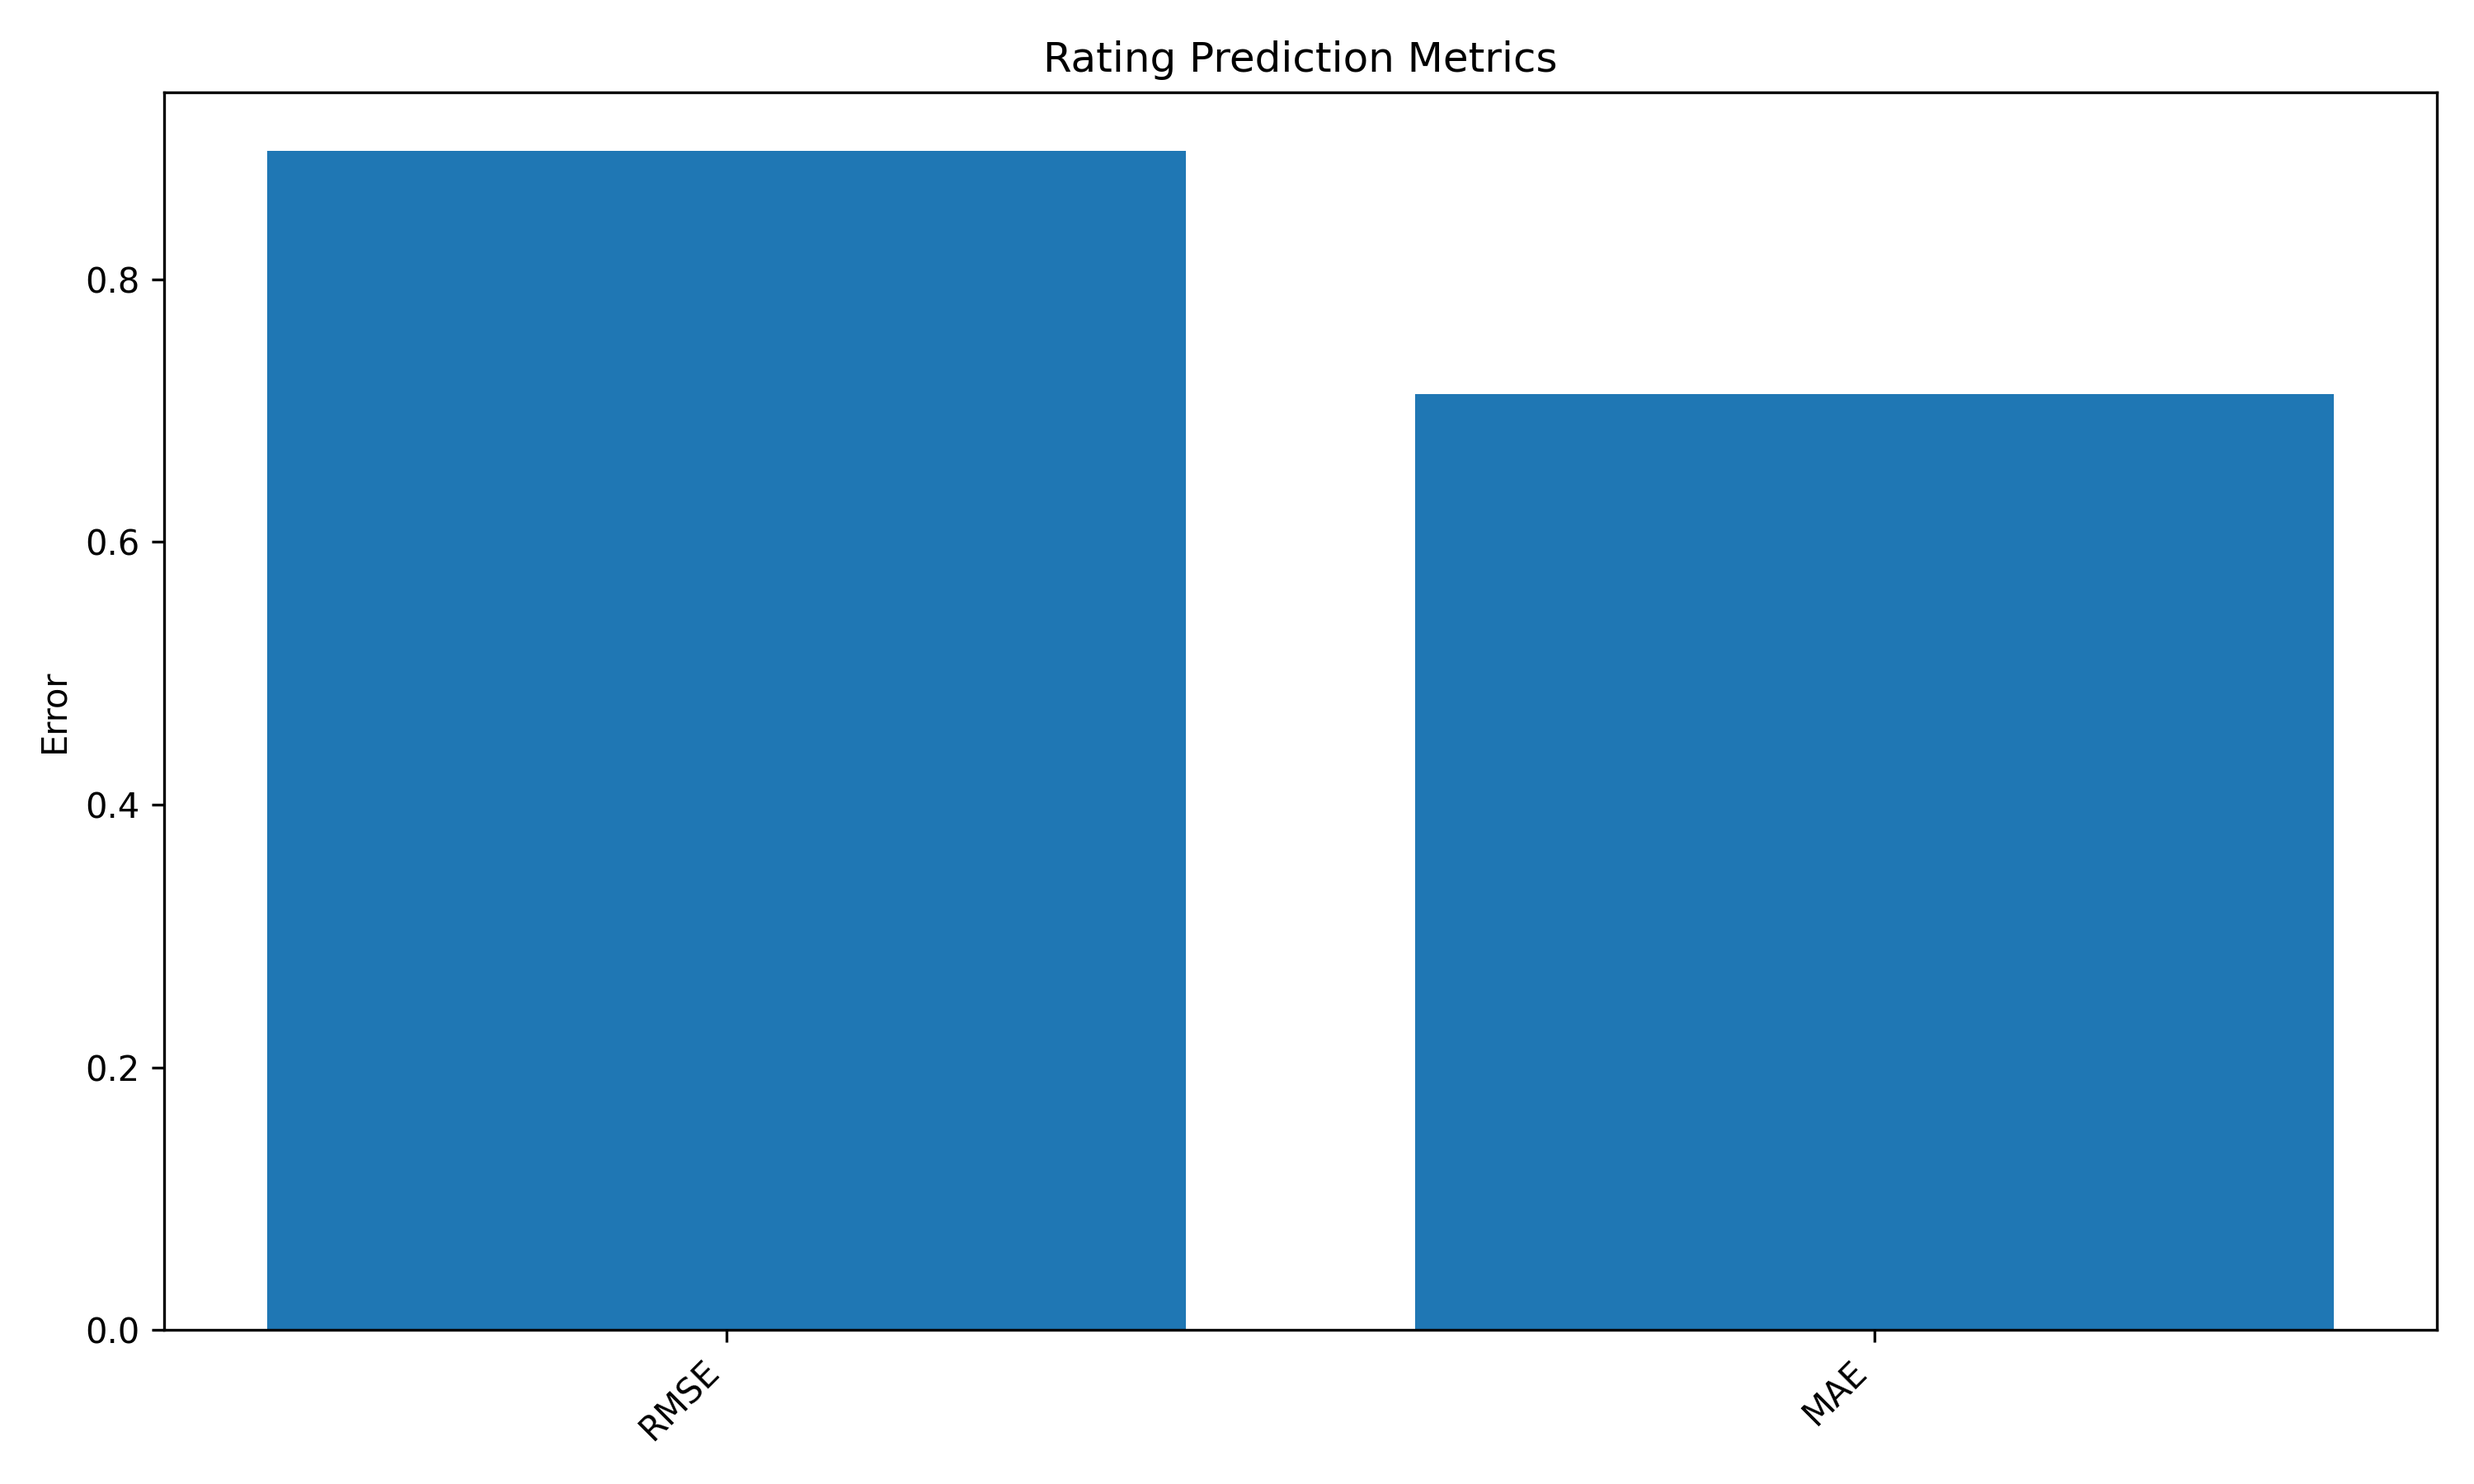
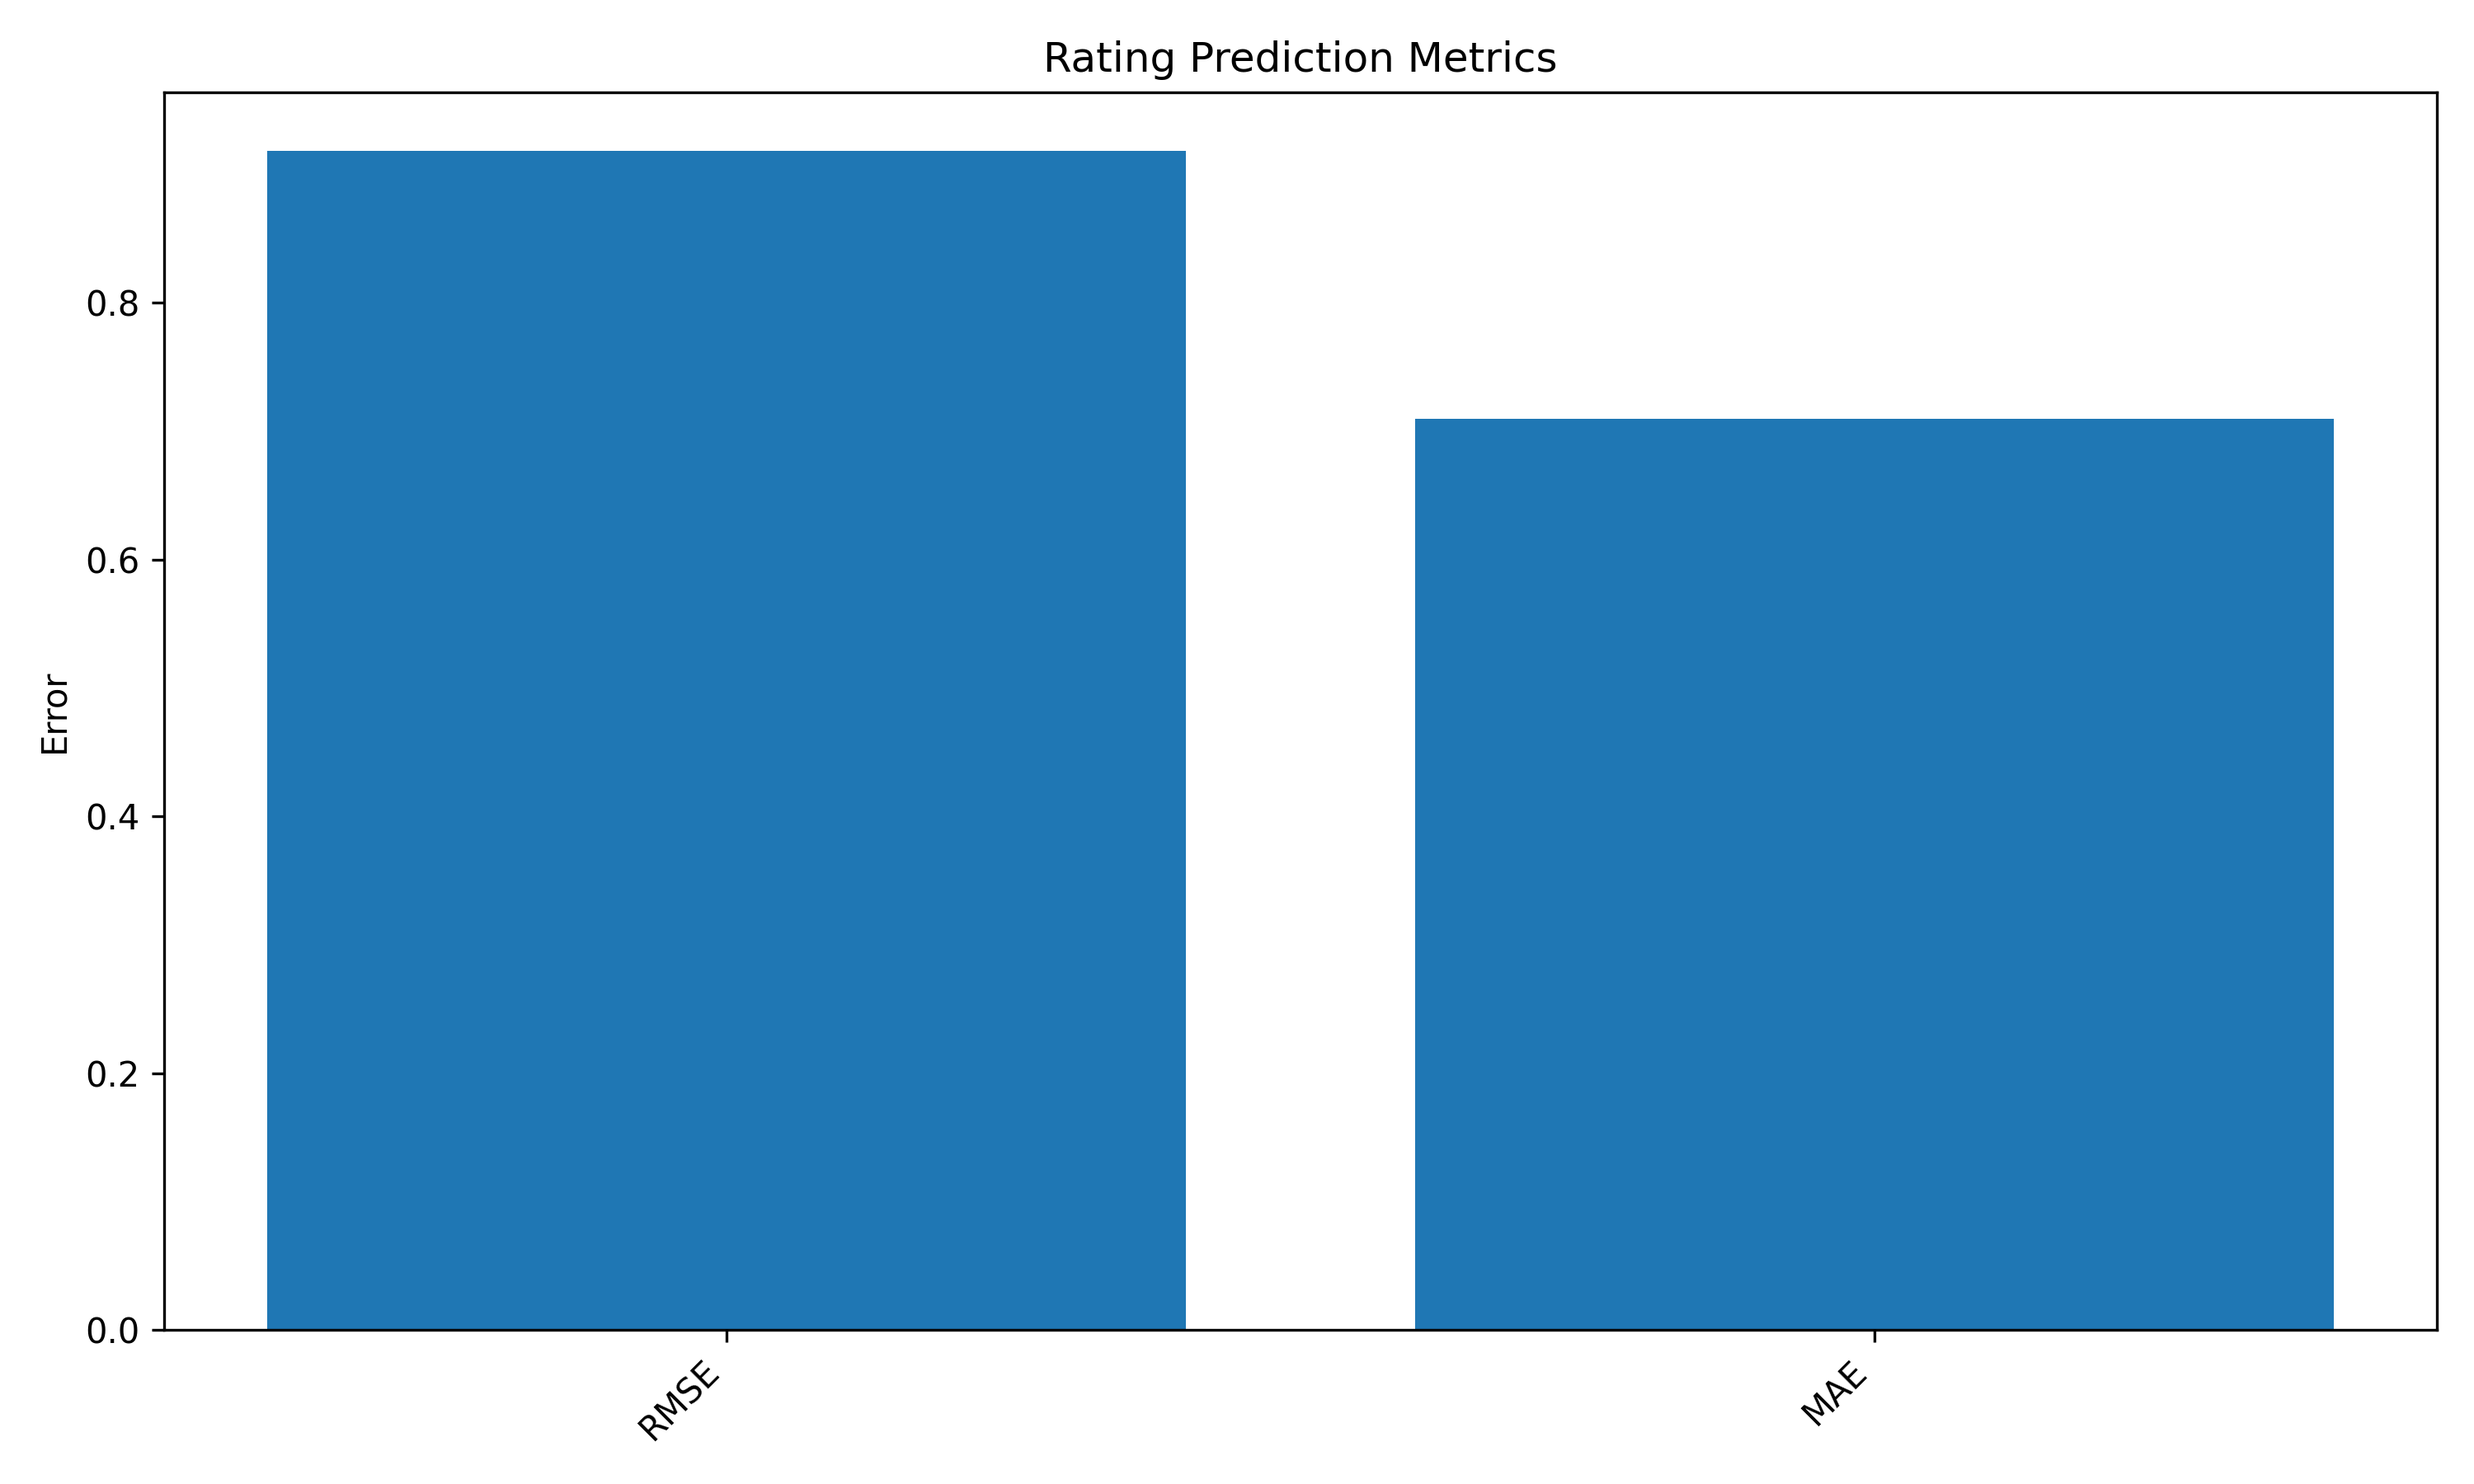
Improve ranking evaluation and run MovieLens 10M experiment

diff --git a/src/evaluation.py b/src/evaluation.py
@@ -118,10 +118,10 @@ class OptimizedLightningEvaluator:
         predictions = []
         actuals = []
 
-        for _, row in sample_df.iterrows():
-            user_id = int(row["userId"])
-            item_id = int(row["movieId"])
-            actual_rating = float(row["rating"])
+        for row in sample_df[["userId", "movieId", "rating"]].itertuples(index=False):
+            user_id = int(row.userId)
+            item_id = int(row.movieId)
+            actual_rating = float(row.rating)
 
             predicted_rating = recommender.predict_rating(user_id, item_id)
 
@@ -134,24 +134,118 @@ class OptimizedLightningEvaluator:
             "sample_size": len(sample_df),
         }
 
+    def _build_candidate_items(
+        self,
+        recommender,
+        user_id: int,
+        relevant_items: Set[int],
+        candidate_sample_size: int,
+    ) -> List[int]:
+        """
+        Build candidate set using relevant test items plus sampled negative items.
+
+        This prevents ranking evaluation from becoming all-zero just because
+        relevant items were not sampled as candidates.
+        """
+        seen_items = set(recommender.user_ratings.get(user_id, {}).keys())
+        all_items = list(recommender.item_ratings.keys())
+
+        valid_relevant_items = [
+            int(item_id)
+            for item_id in relevant_items
+            if int(item_id) not in seen_items
+        ]
+
+        negative_candidates = [
+            int(item_id)
+            for item_id in all_items
+            if int(item_id) not in seen_items
+            and int(item_id) not in relevant_items
+        ]
+
+        rng = np.random.default_rng(seed=42 + int(user_id))
+
+        negative_sample_size = min(
+            candidate_sample_size,
+            len(negative_candidates),
+        )
+
+        if negative_sample_size > 0:
+            sampled_negatives = rng.choice(
+                negative_candidates,
+                size=negative_sample_size,
+                replace=False,
+            ).astype(int).tolist()
+        else:
+            sampled_negatives = []
+
+        candidate_items = valid_relevant_items + sampled_negatives
+
+        return list(dict.fromkeys(candidate_items))
+
     def ranking_evaluation(
         self,
         recommender,
         test_df,
         sample_users: int = 50,
+        candidate_sample_size: int = 300,
     ) -> Dict:
         """
         Evaluate recommendation ranking quality.
 
         Relevant items are defined as:
         rating >= relevance_threshold
+
+        Candidate set:
+        relevant test items + sampled negative items
+
+        Important:
+        In large sampled datasets, a user may exist in test but not in the
+        sampled training set. Those users are skipped because the recommender
+        cannot generate personalized recommendations for unseen users.
         """
-        user_group_sizes = test_df.groupby("userId").size()
-        eligible_users = user_group_sizes[user_group_sizes >= 2].index.to_numpy()
+        relevant_test = test_df[test_df["rating"] >= self.relevance_threshold]
+
+        users_in_model = set(recommender.user_ratings.keys())
+
+        eligible_users = []
+
+        for user_id, group in relevant_test.groupby("userId"):
+            user_id = int(user_id)
+
+            if user_id not in users_in_model:
+                continue
+
+            seen_items = set(recommender.user_ratings.get(user_id, {}).keys())
+
+            relevant_items = set(group["movieId"].astype(int).tolist())
+            relevant_items = {
+                item_id for item_id in relevant_items
+                if item_id not in seen_items
+            }
+
+            if relevant_items:
+                eligible_users.append(user_id)
 
         if len(eligible_users) == 0:
             return {
-                "evaluated_users": 0
+                "precision@5": 0.0,
+                "recall@5": 0.0,
+                "ndcg@5": 0.0,
+                "mrr@5": 0.0,
+                "f1@5": 0.0,
+                "precision@10": 0.0,
+                "recall@10": 0.0,
+                "ndcg@10": 0.0,
+                "mrr@10": 0.0,
+                "f1@10": 0.0,
+                "precision@20": 0.0,
+                "recall@20": 0.0,
+                "ndcg@20": 0.0,
+                "mrr@20": 0.0,
+                "f1@20": 0.0,
+                "evaluated_users": 0,
+                "eligible_users": 0,
             }
 
         rng = np.random.default_rng(seed=42)
@@ -173,19 +267,36 @@ class OptimizedLightningEvaluator:
             for user_id in selected_users:
                 user_test = test_df[test_df["userId"] == user_id]
 
+                seen_items = set(recommender.user_ratings.get(int(user_id), {}).keys())
+
                 relevant_items = set(
                     user_test[
                         user_test["rating"] >= self.relevance_threshold
                     ]["movieId"].astype(int).tolist()
                 )
 
+                relevant_items = {
+                    item_id for item_id in relevant_items
+                    if item_id not in seen_items
+                }
+
                 if not relevant_items:
+                    continue
+
+                candidate_items = self._build_candidate_items(
+                    recommender=recommender,
+                    user_id=int(user_id),
+                    relevant_items=relevant_items,
+                    candidate_sample_size=candidate_sample_size,
+                )
+
+                if not candidate_items:
                     continue
 
                 recommended_items = recommender.recommend_items(
                     int(user_id),
                     n_items=k,
-                    candidate_sample_size=300,
+                    candidate_items=candidate_items,
                 )
 
                 precision = precision_at_k(
@@ -233,5 +344,6 @@ class OptimizedLightningEvaluator:
             )
 
         results["evaluated_users"] = len(selected_users)
+        results["eligible_users"] = len(eligible_users)
 
         return results

diff --git a/src/recommender.py b/src/recommender.py
@@ -1,5 +1,5 @@
 from collections import defaultdict
-from typing import Dict, List, Tuple
+from typing import Dict, List, Tuple, Optional
 
 import numpy as np
 import pandas as pd
@@ -59,7 +59,7 @@ class CompleteThesisRecommender:
 
             self.user_ratings[user_id][item_id] = rating
             self.item_ratings[item_id][user_id] = rating
-            
+
         self._compute_biases(train_df)
 
         print("\nTraining Matrix Factorization model...")
@@ -154,34 +154,44 @@ class CompleteThesisRecommender:
         user_id: int,
         n_items: int = 10,
         candidate_sample_size: int = 300,
+        candidate_items: Optional[List[int]] = None,
     ) -> List[int]:
         """
         Generate top-N item recommendations for a user.
 
-        To keep evaluation efficient, this method scores a sample of unseen items
-        instead of scoring the entire item catalog.
+        If candidate_items is provided, recommendations are generated only from
+        that candidate set. This is useful for ranking evaluation with relevant
+        items + sampled negative items.
         """
         if user_id not in self.user_ratings:
             return []
 
         seen_items = set(self.user_ratings[user_id].keys())
-        all_items = list(self.item_ratings.keys())
 
-        candidate_items = [
-            item_id for item_id in all_items
-            if item_id not in seen_items
-        ]
+        if candidate_items is None:
+            all_items = list(self.item_ratings.keys())
+
+            candidate_items = [
+                item_id for item_id in all_items
+                if item_id not in seen_items
+            ]
+
+            if len(candidate_items) > candidate_sample_size:
+                rng = np.random.default_rng(seed=42)
+                candidate_items = rng.choice(
+                    candidate_items,
+                    size=candidate_sample_size,
+                    replace=False,
+                ).tolist()
+        else:
+            candidate_items = [
+                int(item_id)
+                for item_id in candidate_items
+                if int(item_id) not in seen_items
+            ]
 
         if not candidate_items:
             return []
-
-        if len(candidate_items) > candidate_sample_size:
-            rng = np.random.default_rng(seed=42)
-            candidate_items = rng.choice(
-                candidate_items,
-                size=candidate_sample_size,
-                replace=False,
-            ).tolist()
 
         scored_items = []
 

diff --git a/main.py b/main.py
@@ -68,6 +68,7 @@ def main():
         recommender,
         test_df,
         sample_users=config["ranking_sample_users"],
+        candidate_sample_size=config["candidate_sample_size"],
     )
 
     print("\nRanking evaluation results:")
